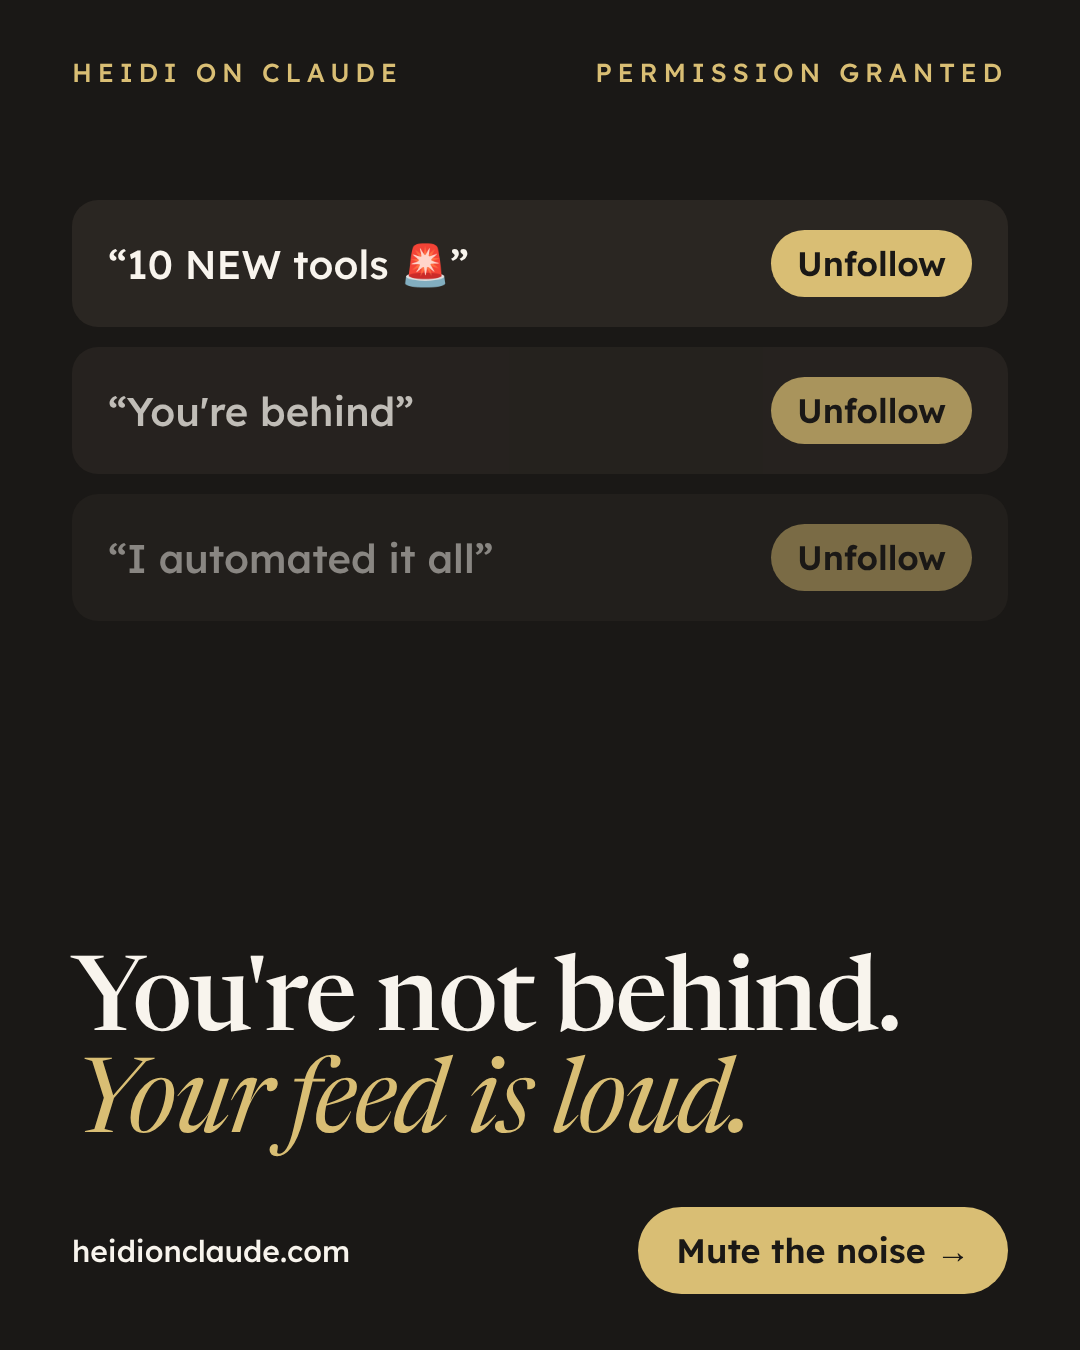
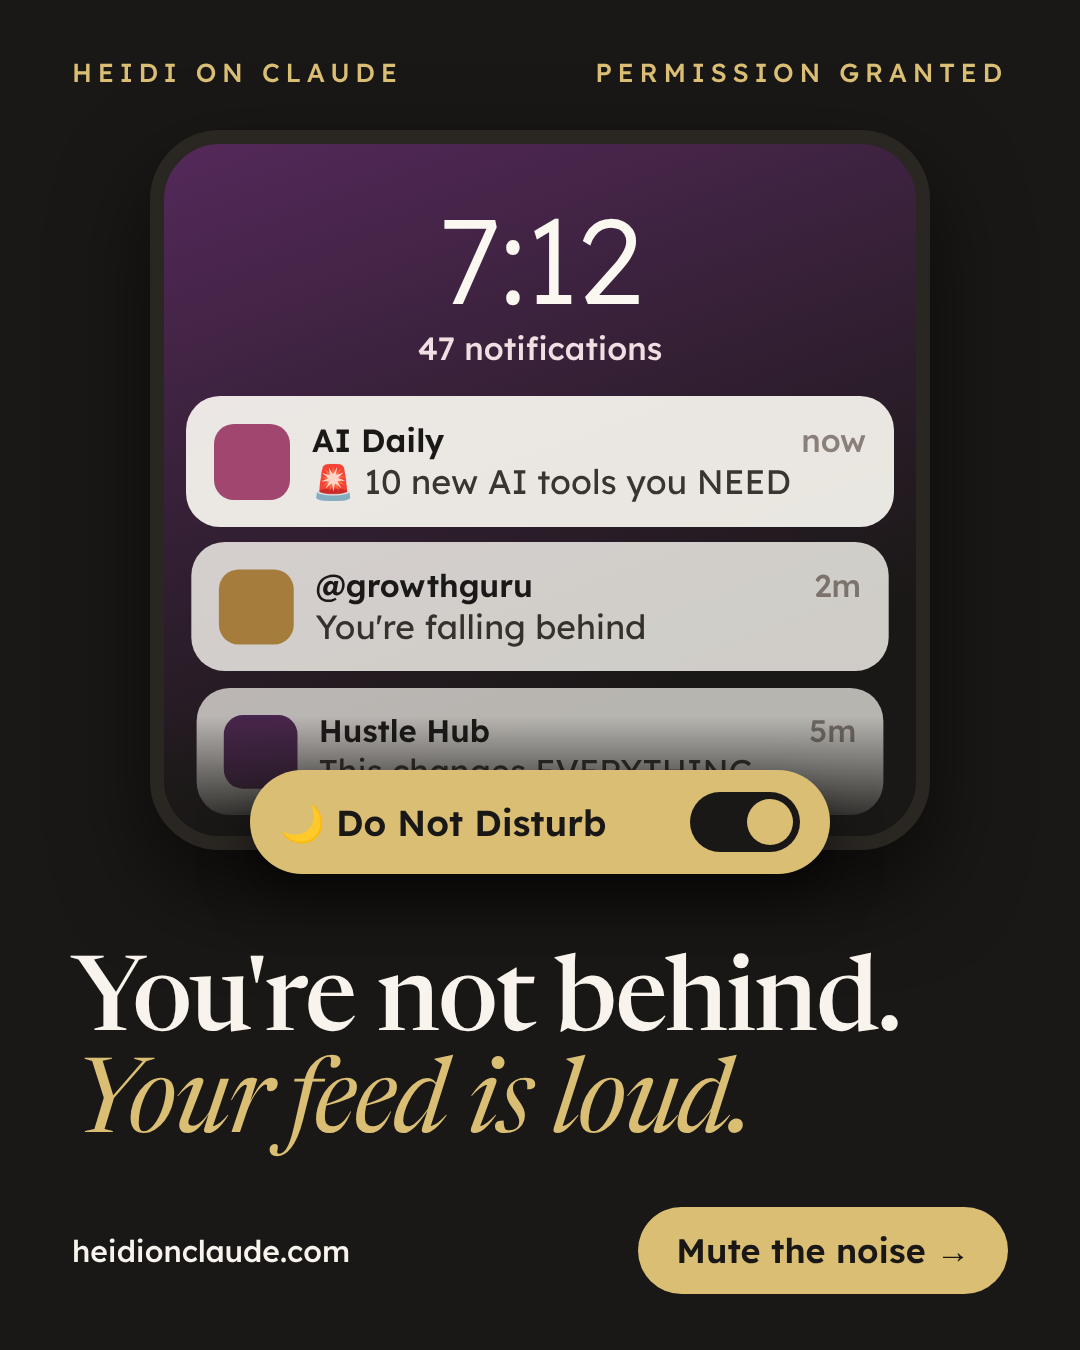
Redesign v2 graphic for post 11 as a lock screen with Do Not Disturb
Claude-Session: https://claude.ai/code/session_014xXgZ7AJKixRWA8dPAncMh

diff --git a/content/heidionclaude/graphics/v2/html/v2-post-11.html b/content/heidionclaude/graphics/v2/html/v2-post-11.html
@@ -18,7 +18,25 @@ body{background:var(--bg);color:var(--ink);font-family:Lexend,sans-serif;positio
 .sticky{background:#FFF6C9;color:#1A1816;box-shadow:0 24px 50px rgba(0,0,0,.2)}
 </style></head>
 <body style="--bg:#1A1816;--ink:#F8F4ED;--acc:#D9BE74;--lab:#D9BE74;--card:#2A2622;--cink:#F8F4ED;--line:#B68A3E"><div class="tag"><span>Heidi on Claude</span><span>Permission granted</span></div>
-<div class="abs" style="left:72px;right:72px;top:200px">
- <div style="display:flex;justify-content:space-between;align-items:center;background:#2A2622;border-radius:26px;padding:30px 36px;margin-bottom:20px;opacity:1"><span style="font:500 40px Lexend;color:#F8F4ED">“10 NEW tools 🚨”</span><span style="font:600 34px Lexend;color:#1A1816;background:#D9BE74;border-radius:999px;padding:12px 26px">Unfollow</span></div><div style="display:flex;justify-content:space-between;align-items:center;background:#2A2622;border-radius:26px;padding:30px 36px;margin-bottom:20px;opacity:0.75"><span style="font:500 40px Lexend;color:#F8F4ED">“You're behind”</span><span style="font:600 34px Lexend;color:#1A1816;background:#D9BE74;border-radius:999px;padding:12px 26px">Unfollow</span></div><div style="display:flex;justify-content:space-between;align-items:center;background:#2A2622;border-radius:26px;padding:30px 36px;margin-bottom:20px;opacity:0.5"><span style="font:500 40px Lexend;color:#F8F4ED">“I automated it all”</span><span style="font:600 34px Lexend;color:#1A1816;background:#D9BE74;border-radius:999px;padding:12px 26px">Unfollow</span></div></div>
+<div class="abs" style="left:150px;right:150px;top:130px;height:720px;border-radius:70px;border:14px solid #2A2622;overflow:hidden;background:linear-gradient(160deg,#54295A,#1A1816 75%);box-shadow:0 40px 90px rgba(0,0,0,.6)">
+ <div style="text-align:center;margin-top:40px;font:300 120px Lexend;color:#FBF8F2;letter-spacing:-.02em">7:12</div>
+ <div style="text-align:center;font:500 32px Lexend;color:#EFDEE2;margin-top:-6px">47 notifications</div>
+ <div style="padding:28px 22px 0"><div style="background:rgba(251,248,242,.92);border-radius:34px;padding:24px 28px;margin-bottom:14px;display:flex;gap:22px;align-items:center;opacity:1.0;transform:scale(1.0)">
+ <div style="flex:none;width:76px;height:76px;border-radius:20px;background:#A0466F"></div>
+ <div style="flex:1;min-width:0"><div style="display:flex;justify-content:space-between;font:600 32px Lexend;color:#1A1816"><span>AI Daily</span><span style="color:#8a8079;font-weight:500">now</span></div>
+ <div style="font:400 34px Lexend;color:#3A3530;white-space:nowrap;overflow:hidden;text-overflow:ellipsis">🚨 10 new AI tools you NEED</div></div></div><div style="background:rgba(251,248,242,.92);border-radius:34px;padding:24px 28px;margin-bottom:14px;display:flex;gap:22px;align-items:center;opacity:0.88;transform:scale(0.985)">
+ <div style="flex:none;width:76px;height:76px;border-radius:20px;background:#B68A3E"></div>
+ <div style="flex:1;min-width:0"><div style="display:flex;justify-content:space-between;font:600 32px Lexend;color:#1A1816"><span>@growthguru</span><span style="color:#8a8079;font-weight:500">2m</span></div>
+ <div style="font:400 34px Lexend;color:#3A3530;white-space:nowrap;overflow:hidden;text-overflow:ellipsis">You're falling behind</div></div></div><div style="background:rgba(251,248,242,.92);border-radius:34px;padding:24px 28px;margin-bottom:14px;display:flex;gap:22px;align-items:center;opacity:0.76;transform:scale(0.97)">
+ <div style="flex:none;width:76px;height:76px;border-radius:20px;background:#54295A"></div>
+ <div style="flex:1;min-width:0"><div style="display:flex;justify-content:space-between;font:600 32px Lexend;color:#1A1816"><span>Hustle Hub</span><span style="color:#8a8079;font-weight:500">5m</span></div>
+ <div style="font:400 34px Lexend;color:#3A3530;white-space:nowrap;overflow:hidden;text-overflow:ellipsis">This changes EVERYTHING</div></div></div><div style="background:rgba(251,248,242,.92);border-radius:34px;padding:24px 28px;margin-bottom:14px;display:flex;gap:22px;align-items:center;opacity:0.64;transform:scale(0.955)">
+ <div style="flex:none;width:76px;height:76px;border-radius:20px;background:#8C6A2A"></div>
+ <div style="flex:1;min-width:0"><div style="display:flex;justify-content:space-between;font:600 32px Lexend;color:#1A1816"><span>@10xfounder</span><span style="color:#8a8079;font-weight:500">9m</span></div>
+ <div style="font:400 34px Lexend;color:#3A3530;white-space:nowrap;overflow:hidden;text-overflow:ellipsis">I automated my whole life</div></div></div></div>
+ <div style="position:absolute;left:0;right:0;bottom:0;height:120px;background:linear-gradient(transparent,#1A1816)"></div></div>
+<div class="abs" style="left:250px;right:250px;top:770px;border-radius:999px;background:#D9BE74;padding:22px 30px;display:flex;align-items:center;justify-content:space-between;box-shadow:0 24px 50px rgba(0,0,0,.5)">
+ <span style="font:600 36px Lexend;color:#1A1816">🌙 Do Not Disturb</span>
+ <span style="width:110px;height:60px;border-radius:30px;background:#1A1816;position:relative"><span style="position:absolute;right:7px;top:7px;width:46px;height:46px;border-radius:50%;background:#D9BE74"></span></span></div>
 <div class="abs s" style="left:72px;right:72px;bottom:190px;font-size:104px;color:#F8F4ED">You're not behind. <em>Your feed is loud.</em></div>
 <div class="foot"><span>heidionclaude.com</span><span class="pill">Mute the noise →</span></div></body></html>

diff --git a/content/heidionclaude/graphics/v2/build_v2.py b/content/heidionclaude/graphics/v2/build_v2.py
@@ -263,6 +263,26 @@ S[29] = g("plum", "Agree?", f"""
 <style>.strike:after{{background:{PEN};height:9px;top:55%}}</style>
 """ + head("Using Claude <em>isn't cheating.</em>", bottom=190, size=118, color="#FBF8F2"), "Where's your line? ↓")
 
+# 11 (redesign) S11_LOCK: a lock screen buried in AI-hype notifications, Do Not Disturb on
+notes = [("#A0466F","AI Daily","🚨 10 new AI tools you NEED","now"),
+         ("#B68A3E","@growthguru","You're falling behind","2m"),
+         ("#54295A","Hustle Hub","This changes EVERYTHING","5m"),
+         ("#8C6A2A","@10xfounder","I automated my whole life","9m")]
+cards = "".join(f"""<div style="background:rgba(251,248,242,.92);border-radius:34px;padding:24px 28px;margin-bottom:14px;display:flex;gap:22px;align-items:center;opacity:{1-i*.12};transform:scale({1-i*.015})">
+ <div style="flex:none;width:76px;height:76px;border-radius:20px;background:{c}"></div>
+ <div style="flex:1;min-width:0"><div style="display:flex;justify-content:space-between;font:600 32px Lexend;color:#1A1816"><span>{a}</span><span style="color:#8a8079;font-weight:500">{t}</span></div>
+ <div style="font:400 34px Lexend;color:#3A3530;white-space:nowrap;overflow:hidden;text-overflow:ellipsis">{m}</div></div></div>""" for i,(c,a,m,t) in enumerate(notes))
+S[11] = g("ink", "Permission granted", f"""
+<div class="abs" style="left:150px;right:150px;top:130px;height:720px;border-radius:70px;border:14px solid #2A2622;overflow:hidden;background:linear-gradient(160deg,#54295A,#1A1816 75%);box-shadow:0 40px 90px rgba(0,0,0,.6)">
+ <div style="text-align:center;margin-top:40px;font:300 120px Lexend;color:#FBF8F2;letter-spacing:-.02em">7:12</div>
+ <div style="text-align:center;font:500 32px Lexend;color:#EFDEE2;margin-top:-6px">47 notifications</div>
+ <div style="padding:28px 22px 0">{cards}</div>
+ <div style="position:absolute;left:0;right:0;bottom:0;height:120px;background:linear-gradient(transparent,#1A1816)"></div></div>
+<div class="abs" style="left:250px;right:250px;top:770px;border-radius:999px;background:#D9BE74;padding:22px 30px;display:flex;align-items:center;justify-content:space-between;box-shadow:0 24px 50px rgba(0,0,0,.5)">
+ <span style="font:600 36px Lexend;color:#1A1816">🌙 Do Not Disturb</span>
+ <span style="width:110px;height:60px;border-radius:30px;background:#1A1816;position:relative"><span style="position:absolute;right:7px;top:7px;width:46px;height:46px;border-radius:50%;background:#D9BE74"></span></span></div>
+""" + head("You're not behind. <em>Your feed is loud.</em>", bottom=190, size=104, color="#F8F4ED"), "Mute the noise →")
+
 if __name__ == "__main__":
     out = HERE / "html"; out.mkdir(exist_ok=True)
     expected = [n for n in range(1, 31) if n not in (5, 17, 19)]
